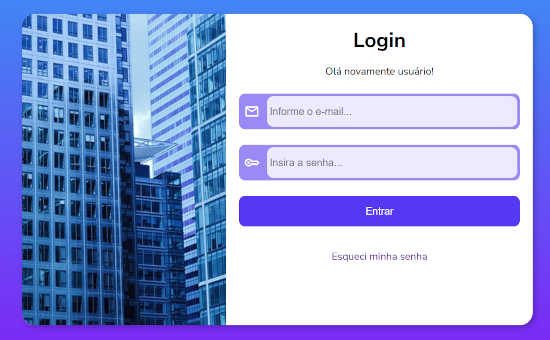
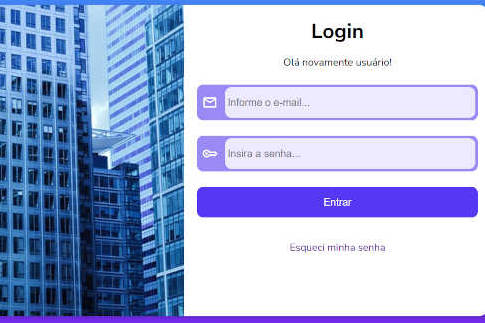
Descrevendo e adicionando todos os projetos

diff --git a/projects.html b/projects.html
@@ -35,45 +35,136 @@
     <!-- ========== MAIN ========== -->
     <main>
 
+        <!-- ======= Mini Loja ======= -->
         <section class="content-text">
+
+            <!-- Imagem ilustrativa -->
             <div class="image-wrapper">
-                <img src="images/mini-loja-site.jpg" alt="Imagem do site de loja" id="store">
+                <img src="images/mini-loja-site.jpg" alt="Imagem do site de loja">
             </div>
             
+            <!-- Região do texto -->
             <div class="text-wrapper">
+                <!-- Título -->
                 <h2 class="project-title">Mini Loja</h2>
+
+                <!-- Data -->
                 <h3 class="date">31/01/2026</h3>
+
+                <!-- Texto -->
                 <p>Um site exibindo um layout de loja virtual, o qual é simplesmente estético. Ele foi criado como forma de praticar o Grid Layout das CSS, utilizando sua tecnologia para uma responsividade de listas sem nenhuma Media Query.</p>
                 <p>A grade onde os produtos são colocados consegue calcular automaticamente o número de itens que cabem em uma linha, de tal forma que ela mude a organização de modo fluido e organizado.</p>
+
+                <!-- Link do site -->
                 <a href="https://felipetoshio01.github.io/mini-loja/" title="Acessar o site 'mini-loja'" target="_blank">Acesse o site!</a>
             </div>
         </section>
 
+
+        <!-- ======= Site Login ======= -->
         <section class="content-text">
+
+            <!-- Imagem ilustrativa -->
             <div class="image-wrapper">
-                <img src="images/login-site.jpg" alt="Site login" id="login">
+                <img src="images/login-site.jpg" alt="Ilustração do Site login">
             </div>
-            
+
+            <!-- Região do texto -->
             <div class="text-wrapper">
+                <!-- Título -->
                 <h2 class="project-title">Projeto Login</h2>
+
+                <!-- Data -->
                 <h3 class="date">23/01/2026</h3>
-                <p>Lorem ipsum dolor sit amet consectetur, adipisicing elit. Vitae nam ad laboriosam voluptatibus veritatis neque ex sint similique et ab iusto illo, at deleniti laudantium odio cupiditate modi commodi culpa!</p>
-                <p>Lorem ipsum dolor sit amet, consectetur adipisicing elit. Consequatur officiis quaerat cum excepturi sit debitis aliquam quisquam dolorem nulla hic ab maiores quibusdam, sapiente fugiat amet velit aut ea perspiciatis?</p>
+
+                <!-- Texto -->
+                <p>É o primeiro site que usou Media Queries feio com o <a href="https://www.cursoemvideo.com/" rel="external" target="_blank" title="Acesse o site do CursoemVídeo">CursoemVídeo</a>. Uma tela de login responsiva para todos os dispositivos, contando consigo um Flexbox, outra tecnologia que aprendi na época.</p>
+                <p>Com um simples formulário, é um dos sites meus que ficaram mais bonitos, só faltando mesmo uma funcionalidade real com um Backend e tratamento de dados.</p>
+
+                <!-- Link do site -->
                 <a href="https://felipetoshio01.github.io/projeto-login/" title="Acessar o site 'projeto-login'" target="_blank">Acesse o site!</a>
             </div>
         </section>
+
+
+        <!-- ======= Site Cordel ======= -->
         <section class="content-text">
+
+            <!-- Imagem ilustrativa -->
+            <div class="image-wrapper">
+                <img src="images/cordel-site.jpg" alt="Imagem do site de loja">
+            </div>
+            
+            <!-- Região do texto -->
+            <div class="text-wrapper">
+                <!-- Título -->
+                <h2 class="project-title">Projeto cordel</h2>
+
+                <!-- Data -->
+                <h3 class="date">18/01/2026</h3>
+
+                <!-- Texto -->
+                <p>Foi um site feito para praticar imagens de fundo, num projeto do <a href="https://www.cursoemvideo.com/" rel="external" target="_blank" title="Acesse o site do CursoemVídeo">CursoemVídeo</a>. Ele ilustra um poema do artista <a href="https://www.recantodasletras.com.br/poesias/3186743" rel="external" title="Veja o poema original">Milton Duarte</a> sobre a modernidade e suas tecnologias.</p>
+                <p>O site apresenta uma certa responsividade básica, além de mexer com o efeito paralax, que dá um charme para o conjunto como um todo.</p>
+
+                <!-- Link do site -->
+                <a href="https://felipetoshio01.github.io/projeto-cordel/" title="Acessar o site 'projeto-cordel'" target="_blank">Acesse o site!</a>
+            </div>
+        </section>
+
+
+        <!-- ======= Site Android ======= -->
+        <section class="content-text">
+
+            <!-- Imagem ilustrativa -->
+            <div class="image-wrapper">
+                <img src="images/android-site.jpg" alt="Imagem do site de loja">
+            </div>
+            
+            <!-- Região do texto -->
+            <div class="text-wrapper">
+                <!-- Título -->
+                <h2 class="project-title">Projeto Android</h2>
+
+                <!-- Data -->
+                <h3 class="date">16/01/2026</h3>
+
+                <!-- Texto -->
+                <p>Foi o meu primeiro site de fato, também feito durante o <a href="https://www.cursoemvideo.com/" rel="external" target="_blank" title="Acesse o site do CursoemVídeo">CursoemVídeo</a>. Ele demonstra a história do mascote do Android, junto com os designers que trabalharam neles.</p>
+                <p>Possuindo também curiosidades, esse site, mesmo iniciante, conta com uma responsividade, onde imagens e vídeos se adaptam ao conteúdo. Certamente um projeto que ficará para sempre no coração como aquele que iniciou toda essa jornada.</p>
+                
+
+                <!-- Link do site -->
+                <a href="https://felipetoshio01.github.io/projeto-android/" title="Acessar o site 'projeto-android'" target="_blank">Acesse o site!</a>
+            </div>
+        </section>
+
+
+        <!-- ======= Kami ======= -->
+        <section class="content-text">
+            
+            <!-- Imagem ilustrativa -->
             <div class="image-wrapper">
                 <img src="images/kami-logo.jpeg" alt="Logo do Kami">
             </div>
             
+            <!-- Região do texto -->
             <div class="text-wrapper">
-                <h2>Kami</h2>
-                <p>Lorem ipsum dolor sit amet consectetur, adipisicing elit. Vitae nam ad laboriosam voluptatibus veritatis neque ex sint similique et ab iusto illo, at deleniti laudantium odio cupiditate modi commodi culpa!</p>
-                <p>Lorem ipsum dolor sit amet consectetur adipisicing elit. Unde quod enim est repellendus. Amet laborum omnis, sunt cupiditate distinctio aliquam vel ipsam a corrupti fuga voluptate voluptatem alias quae iusto.</p>
+                <!-- Título -->
+                <h2 class="project-title">Kami</h2>
+
+                <!-- Data -->
+                <h3 class="date">9/01/2026</h3>
+
+                <!-- Texto -->
+                <p>É o meu maior e mais ambicioso projeto, sendo uma aplicação mobile feita em Python com o objetivo de criar uma rede social de postagem de resumos escolares entre um grupo de 6 amigas. Usando as bibliotecas Kivy e Kivy MD, foi uma forma de entender como as mais diversas redes sociais funcionam</p>
+                <p>Como um projeto amador, estou ciente que possuí diversos erros e possíveis otimizações, mas só de ver ele pronto e devidamente funcionando compensou toda a jornada de 6 meses produzindo ele, na qual trouxe uma nova amizade, aprendizado e superação.</p>
             </div>
         </section>
 
+        <section class="content-transparent">
+            
+        </section>
     </main>
 
 

diff --git a/styles/pages/projects.css b/styles/pages/projects.css
@@ -3,15 +3,9 @@
 img {
     aspect-ratio: 3/2;
     object-fit: cover;
+    border-radius: 1em;
+    object-position: center;
     width: 100%;
-}
-
-#store {
-    object-position: left top;
-}
-
-#login {
-    object-position: center center;
 }
 
 .image-wrapper {
